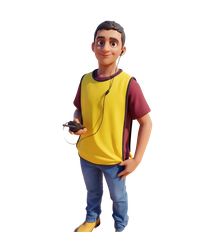
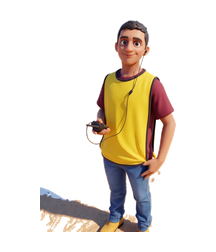
Figura inicial, retorno 6s e correcao 18/21

Changed region(s): [[0.1667, 0.0833, 0.8333, 0.9444]]

diff --git a/index.html b/index.html
@@ -419,7 +419,7 @@ h1{
     <div class="titlerow">
       <h1>Toró<span class="h1-sub">Clima</span><span class="h1-assinatura">by project integração</span></h1>
       <button class="avatar-float" id="avatarFloat" type="button" aria-label="Toque para ver a próxima figura">
-        <img id="avatarFloatImg" src="av_est01.png" alt="Figura da estação">
+        <img id="avatarFloatImg" src="av_est00.png" alt="Figura da estação">
       </button>
       <button class="dots" id="btnMenu" aria-label="Mais opções">
         <svg width="20" height="20" viewBox="0 0 24 24" fill="currentColor">
@@ -1586,6 +1586,7 @@ function mostrarAba(view){
 }
 
 const ESTACOES_AVATAR = [
+  { src:'av_est00.png', nome:'Inicial', deco:'verao' },
   { src:'av_est01.png', nome:'Verão', deco:'verao' },
   { src:'av_est02.png', nome:'Verão', deco:'verao' },
   { src:'av_est03.png', nome:'Verão', deco:'verao' },
@@ -1611,6 +1612,7 @@ const ESTACOES_AVATAR = [
 ];
 
 let estiloIdx = 0;
+let avatarTimer = null;
 function aplicarEstiloIdx(){
   const alvo = ESTACOES_AVATAR[estiloIdx];
   const img = document.getElementById('avatarFloatImg');
@@ -1625,6 +1627,11 @@ function iniciarAvatar(){
   if (box) box.addEventListener('click', () => {
     estiloIdx = (estiloIdx + 1) % ESTACOES_AVATAR.length;
     aplicarEstiloIdx();
+    clearTimeout(avatarTimer);
+    avatarTimer = setTimeout(() => {
+      estiloIdx = 0;
+      aplicarEstiloIdx();
+    }, 6000);
   });
 }
 

diff --git a/sw.js b/sw.js
@@ -1,10 +1,11 @@
 /* Service Worker — Clima Balsas */
-const CACHE = 'clima-balsas-v60';
+const CACHE = 'clima-balsas-v61';
 const ASSETS = [
   './',
   './index.html',
   './manifest.json',
   './icone_app.png',
+  './av_est00.png',
   './av_est01.png',
   './av_est02.png',
   './av_est03.png',
